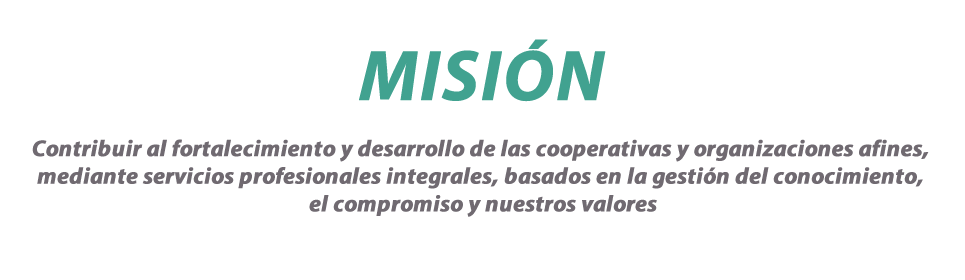
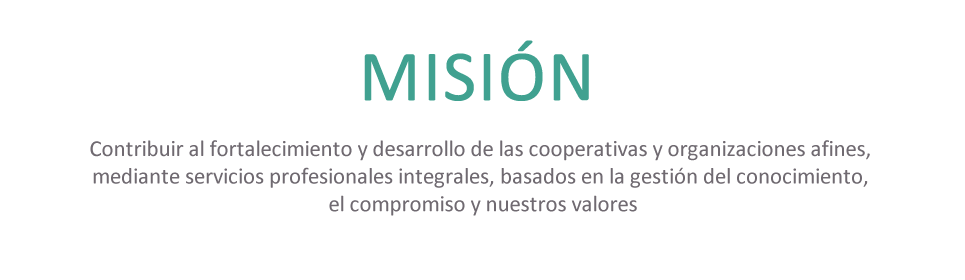
cambios 1

Changed region(s): [[0.0311, 0.6, 0.9637, 0.7714], [0.0311, 0.4857, 0.9637, 0.5714], [0.3731, 0.1429, 0.6528, 0.3714]]

diff --git a/public/sitio/style.css b/public/sitio/style.css
@@ -3,7 +3,7 @@ background:url(images/bg.gif) repeat;
 margin:0px;
 padding:0px;
 font-size:12px;
-font-family:Arial, Helvetica, sans-serif;
+font-family:Calibri, Arial, Helvetica, sans-serif;
 color:#000;
 }
 p{
@@ -65,8 +65,8 @@ float:left;text-decoration:none;padding:0px 10px 0 10px; margin:0px 4px 0 4px;co
 /*-----------------middle_banner----------------------------*/
 .middle_banner{
 width:977px;
-height:304px;
-background:url(images/middle_banner_bg.gif) no-repeat center;
+height:200px;
+background:url(images/middle_banner_bg.gif) no-repeat top center;
 }
 /*----------------------slider---------------------------*/
 .featured_slider { width:965px; margin:auto; float:left; margin:18px 0 0 6px; }
@@ -76,7 +76,7 @@ margin:0px;
 list-style:none;
 }
 /** ----------------------------------------------------- **/
-#featured_border { position: relative; border: none; padding:0px; height:280px; margin: 0px; }
+#featured_border { position: relative; border: none; padding:0px; height:175px; margin: 0px; }
 #featured_wrapper { position: relative; width: 100%; height: 100%; overflow: hidden; }
 #featured_images { position: absolute; left: 0; top: 0; }
 #featured_images li { float: left; }
@@ -338,7 +338,7 @@ color: #2A1C11;
 .login_home
 {
 	float:left;
-	margin-left:250px;
+	margin-left:450px;
 	/*margin-right:50px;*/
 }
 

diff --git a/public/css/style.css b/public/css/style.css
@@ -278,3 +278,8 @@ a
 {
 	width:100%!important;
 }
+
+.texto_dinero
+{
+	text-align:right;
+}

diff --git a/application/views/contenido_sitio/template/vistas/inicio.php b/application/views/contenido_sitio/template/vistas/inicio.php
@@ -10,7 +10,7 @@
 					?>
           <li><?php echo img(array('src'=>'public/images_sitio/slider/'.$valor['nombre_archivo'],
 											'width'=>965,
-											'height'=>280));?></li>
+											'height'=>175));?></li>
           <?php
 				}
 				?>
@@ -52,9 +52,9 @@
 
 <div class="center_content">
   <div class="home_section_left"> <img src="<?php echo base_url('public/sitio');?>/images/icon1.gif" alt="" title="" class="home_section_icon" border="0">
-    <h2 class="home_title">Capacitaciones</h2>
-    <div class="home_subtitle">Capacitaciones</div>
-    <div class="home_section_thumb"> <img src="<?php echo base_url('public/sitio');?>/capacitacion.fw.png" alt="" title="" border="0"> </div>
+    <h2 class="home_title">Capacitación</h2>
+    <div class="home_subtitle">Capacitación</div>
+    <div class="home_section_thumb"><!-- <img src="<?php echo base_url('public/sitio');?>/capacitacion.fw.png" alt="" title="" border="0"> --></div>
     
     <p><span>- Diplomados Especializados</span></p>
     <p><span>- Círculos ejecutivos</span></p>
@@ -65,9 +65,9 @@
     <div class="clear"></div>
   </div>
   <div class="home_section_left"> <img src="<?php echo base_url('public/sitio');?>/images/icon2.gif" alt="" title="" class="home_section_icon" border="0">
-    <h2 class="home_title">Asesorias</h2>
-    <div class="home_subtitle">Asesorias</div>
-    <div class="home_section_thumb"> <img src="<?php echo base_url('public/sitio');?>/asesorias.fw.png" alt="" title="" border="0"> </div>
+    <h2 class="home_title">Asesoría</h2>
+    <div class="home_subtitle">Asesoría</div>
+    <div class="home_section_thumb"> <!--<img src="<?php echo base_url('public/sitio');?>/asesorias.fw.png" alt="" title="" border="0"> --></div>
     <p><span>- Elaboración de diagnosticos</span></p>
     <p><span>- Elaboracion de planes de trabajo</span></p>
     <p><span>- Apoyo en el proceso de tomas de deciciones</span></p>
@@ -77,9 +77,9 @@
     <div class="clear"></div>
   </div>
   <div class="home_section_left"> <img src="<?php echo base_url('public/sitio');?>/images/icon3.gif" alt="" title="" class="home_section_icon" border="0">
-    <h2 class="home_title">Consultoarias</h2>
-    <div class="home_subtitle">Consultorias</div>
-    <div class="home_section_thumb"> <img src="<?php echo base_url('public/sitio');?>/consultorias.fw.png" alt="" title="" border="0"> </div>
+    <h2 class="home_title">Consultoarías</h2>
+    <div class="home_subtitle">Consultoarías</div>
+    <div class="home_section_thumb"><!-- <img src="<?php echo base_url('public/sitio');?>/consultorias.fw.png" alt="" title="" border="0"> --></div>
     <p><span>- Consultoría Administrativa y Financiera</span></p>
     <p><span>- Consultoría de Recursos Humanos</span></p>
     <p><span>- Planificación estratégica</span></p>

diff --git a/application/views/pl_modalidades/lista.php b/application/views/pl_modalidades/lista.php
@@ -42,7 +42,7 @@ if($listado)
       <tr class="gradeA">
       	<td><?php echo $valor['nombre_modalidad']; ?></td>
         <td><?php echo $valor['objetivo'];?></td>
-        <td>$<?php echo number_format( obtener_costo_plan_modalidad($valor[$this->$model->id_tabla]),2);?></td>
+        <td class="texto_dinero">$<?php echo number_format( obtener_costo_plan_modalidad($valor[$this->$model->id_tabla]),2);?></td>
         <td align="center"	class="datatable_icono"><a href="<?php echo site_url('pl_capacitaciones/index/'.$valor[$this->$model->id_tabla]);?>" ><?php echo img('public/img/ico_settings.png');?></a></td>
         <!--<td align="center" class="datatable_icono"><a href="<?php echo site_url('mante_modalidades_docs/index/'.$valor[$this->$model->id_tabla]);?>" ><?php echo img('public/img/ico_posts.png');?></a></td>-->
         <td align="center" class="datatable_icono"><a title="Editar" onClick="editar_registro(<?php echo $valor[$this->$model->id_tabla]; ?>);"><?php echo img('public/img/edit.png');?></a></td>

diff --git a/application/views/pl_planes/lista.php b/application/views/pl_planes/lista.php
@@ -35,7 +35,7 @@ if($listado)
 			?>
       <tr class="gradeA">
       	<td><?php echo $valor['nombre_plan'];?></td>
-        <td>$ <?php echo number_format(obtener_costo_plan($valor[$this->$model->id_tabla]),2);?></td>
+        <td class="texto_dinero">$<?php echo number_format(obtener_costo_plan($valor[$this->$model->id_tabla]),2);?></td>
         <td align="center"	class="datatable_icono"><a target="_blank" href="<?php echo site_url('pl_planes/ver_plan/'.$valor[$this->$model->id_tabla]);?>" ><?php echo img('public/img/ico_page.png');?></a></td>
         <td align="center"	class="datatable_icono"><a href="<?php echo site_url('pl_modalidades/index/'.$valor[$this->$model->id_tabla]);?>" ><?php echo img('public/img/ico_settings.png');?></a></td>
         <td align="center" class="datatable_icono"><a href="<?php echo site_url('mante_modalidades_docs/index/'.$valor[$this->$model->id_tabla]);?>" ><?php echo img('public/img/ico_posts.png');?></a></td>

diff --git a/application/views/contenido_sitio/template/head.php b/application/views/contenido_sitio/template/head.php
@@ -18,8 +18,8 @@
     
         <div id="header">
             <div id="logo"><?php 
-			echo anchor('sitio',img(array('src'=>'public/images_sitio/img/logo_t_asesores.png',
-											'height'=>'80'
+			echo anchor('sitio',img(array('src'=>'public/images_sitio/img/nvo_logo.JPG',
+											'height'=>'90'
 											)
 									)
 						);

diff --git a/application/views/pl_capacitaciones/lista.php b/application/views/pl_capacitaciones/lista.php
@@ -27,7 +27,7 @@ if($listado)
       <tr>
       	<th><?php echo $plan_modalidad['nombre_modalidad'];?></th>
         <th>Presupuesto</th>
-        <th>Costo Real</th>
+        <th>Resultado Financiero</th>
         <th># de Modulos</th>
         <th># Par. Estimados</th>
         
